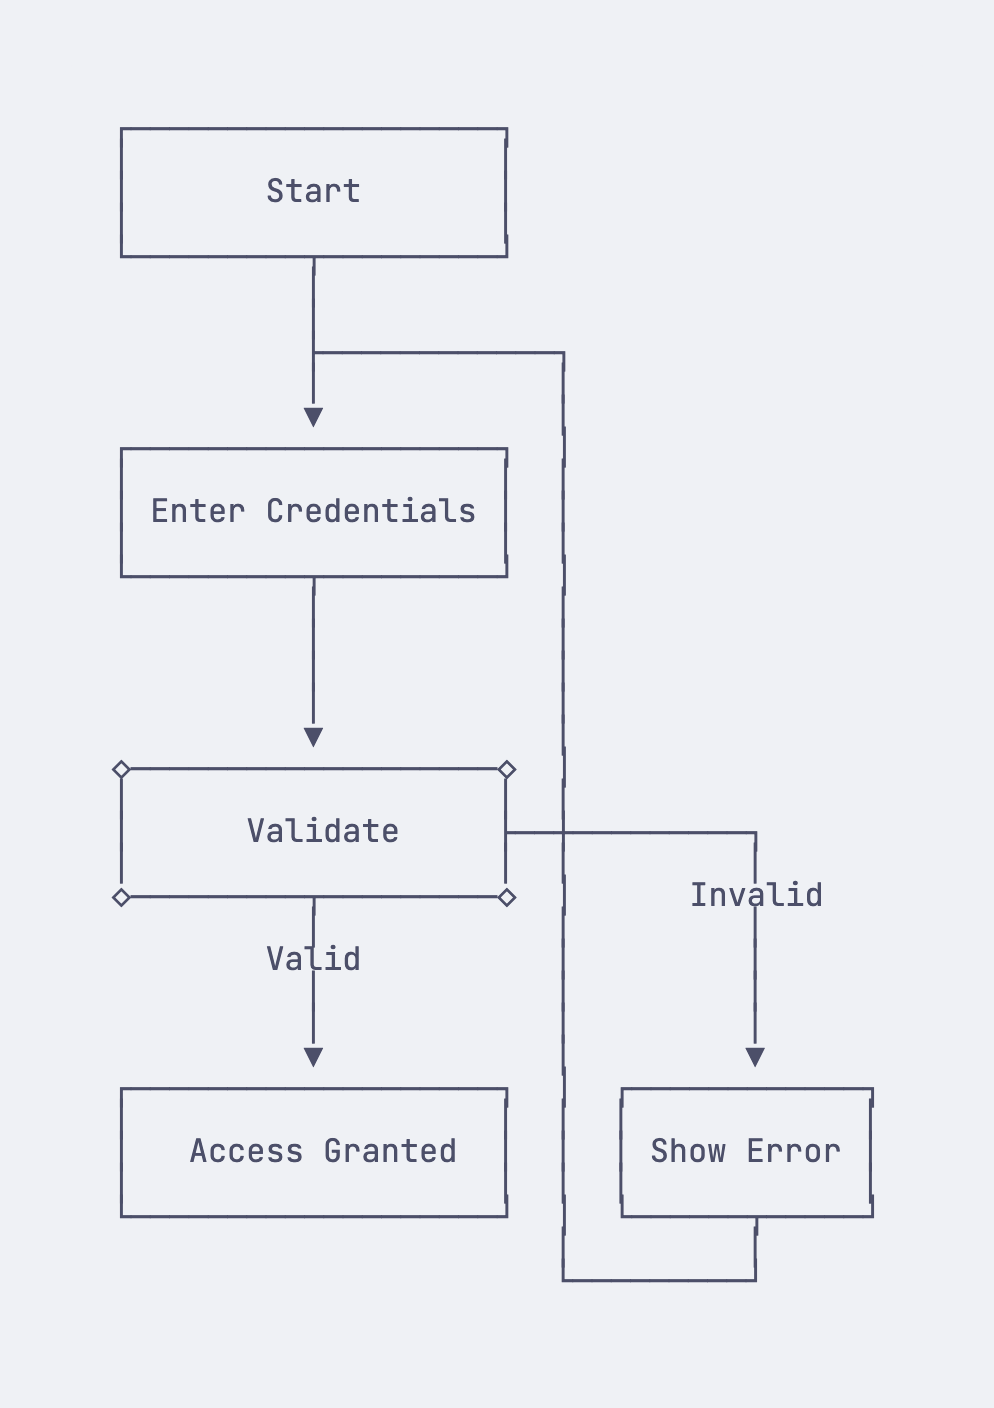
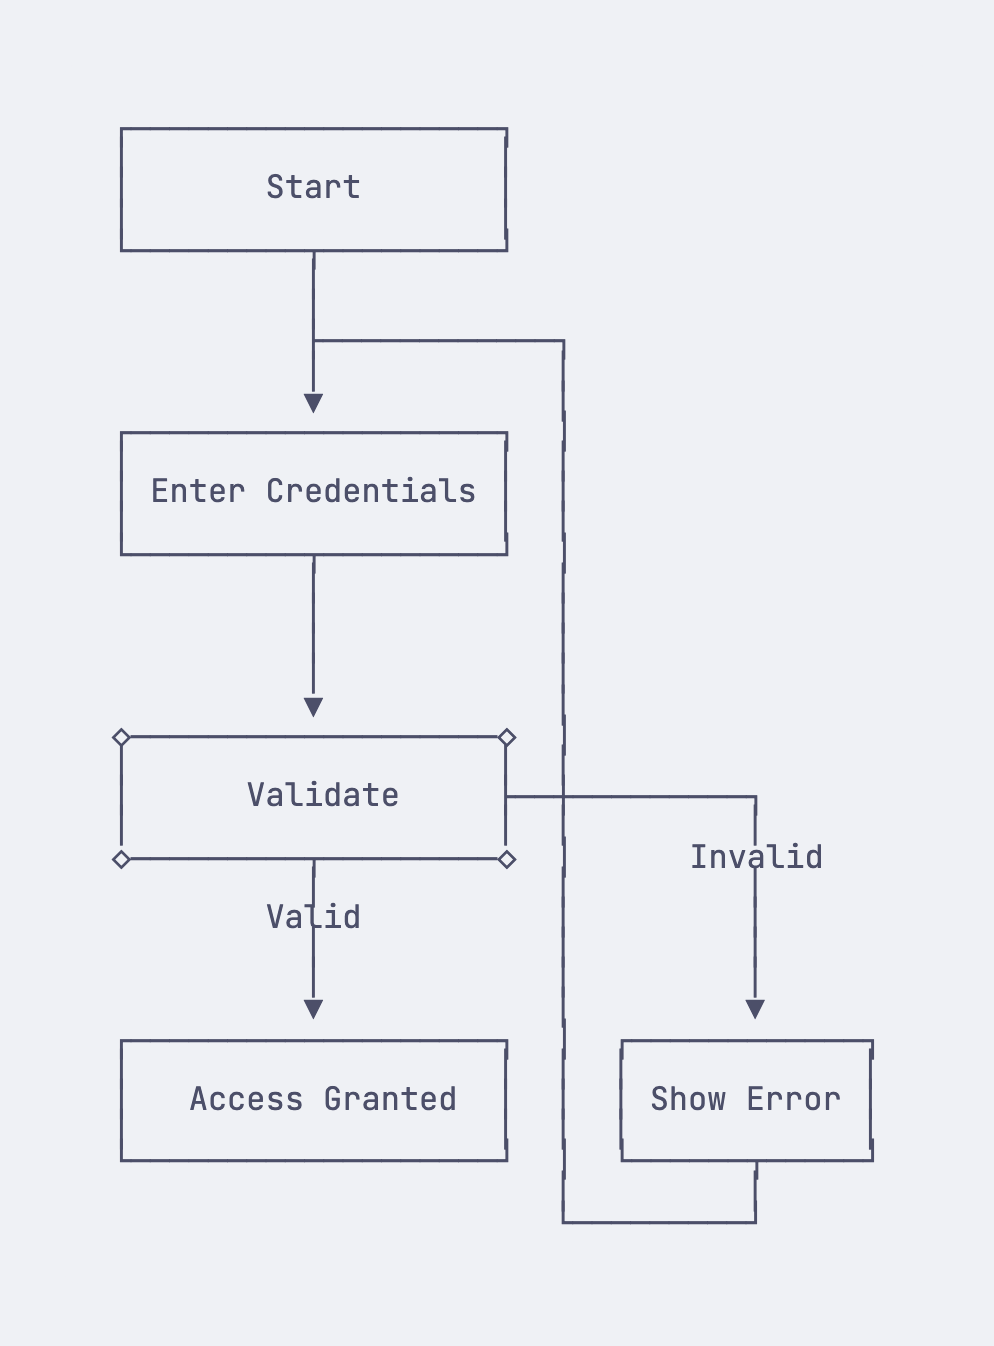
fix: line-height 0.95 to eliminate sub-pixel gaps in box-drawing

diff --git a/scripts/screenshots.ts b/scripts/screenshots.ts
@@ -109,7 +109,7 @@ function renderAsciiHtml(source: string, theme: typeof mocha): string {
     #diagram {
       font-family: 'JetBrains Mono', monospace;
       font-size: 16px;
-      line-height: 1.0;
+      line-height: 0.95;
       letter-spacing: 0;
       color: ${theme.fg};
       white-space: pre;
